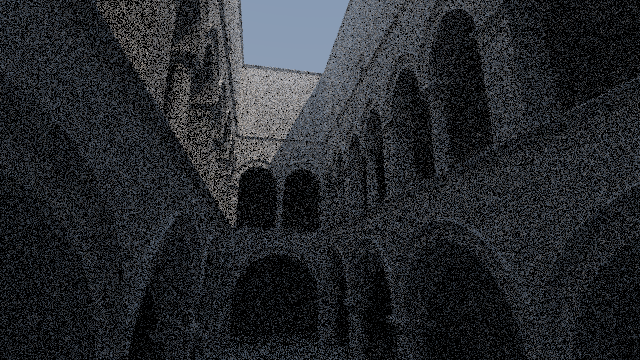
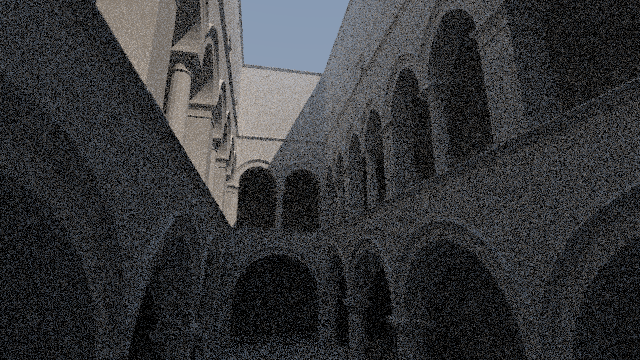
fix TraceIterative, updated readme, updated ref_ocl images

diff --git a/source/main.cpp b/source/main.cpp
@@ -163,8 +163,8 @@ static float3 TraceIterative(const Ray& r, uint32_t& rngState, int& inoutRayCoun
             }
             else
             {
-                // reached recursion limit, or surface fully absorbed the ray: return black
-                return float3(0, 0, 0);
+                // reached recursion limit, or surface fully absorbed the ray: return gathered
+                return currLightE;
             }
         }
         else
@@ -177,7 +177,7 @@ static float3 TraceIterative(const Ray& r, uint32_t& rngState, int& inoutRayCoun
         }
     }
 
-    return float3(0, 0, 0); // exceeded recursion
+    return currLightE; // exceeded recursion
 }
 
 

diff --git a/readme.md b/readme.md
@@ -1,17 +1,26 @@
 ## New features & additions
 - CMake project & build support
 - OpenMP target for multicore processing
-- OpenCL target for CPU/GPU compute support
+- OpenCL target for CPU/GPU compute
 
 ## Speed up
-Using the same brute-force "for each ray intersect all triangles" method:
+Using the same brute-force "for each ray intersect all triangles" method.
+
+Path tracing performance numbers - 640 360 4 suzanne.obj:
 
 | Target device/platform | suzanne   | speed up |
 | :---:                  | :---:     | :---:    |
-| **i7-6770HQ naive**    | 99.276 s  | x1       |
-| **i7-6770HQ OpenMP**   | 17.163 s  | x5.7     |
-| **i7-6770HQ OpenCL**   | 8.066 s   | x12.3    |
-| **Iris Pro OpenCL**    | 0.480 s   | x206.8   |
+| **i7-6770HQ naive**    | 93.126 s  | x1       |
+| **i7-6770HQ OpenMP**   | 16.973 s  | x5.4     |
+| **i7-6770HQ OpenCL**   | 8.562 s   | x10.8    |
+| **Iris Pro OpenCL**    | 0.570 s   | x163     |
+| **GTX 1080 Ti OpenCL** | 0.151 s   | x616     |
+
+## Todos
+ - Faster ray-triangle intersection test
+ - OpenCL BVH traversal
+ - OptiX 6.0 backend / RTX support
+ - SYCL backend
 
 # Interview task/assignment: speed up a simple path tracer
 
